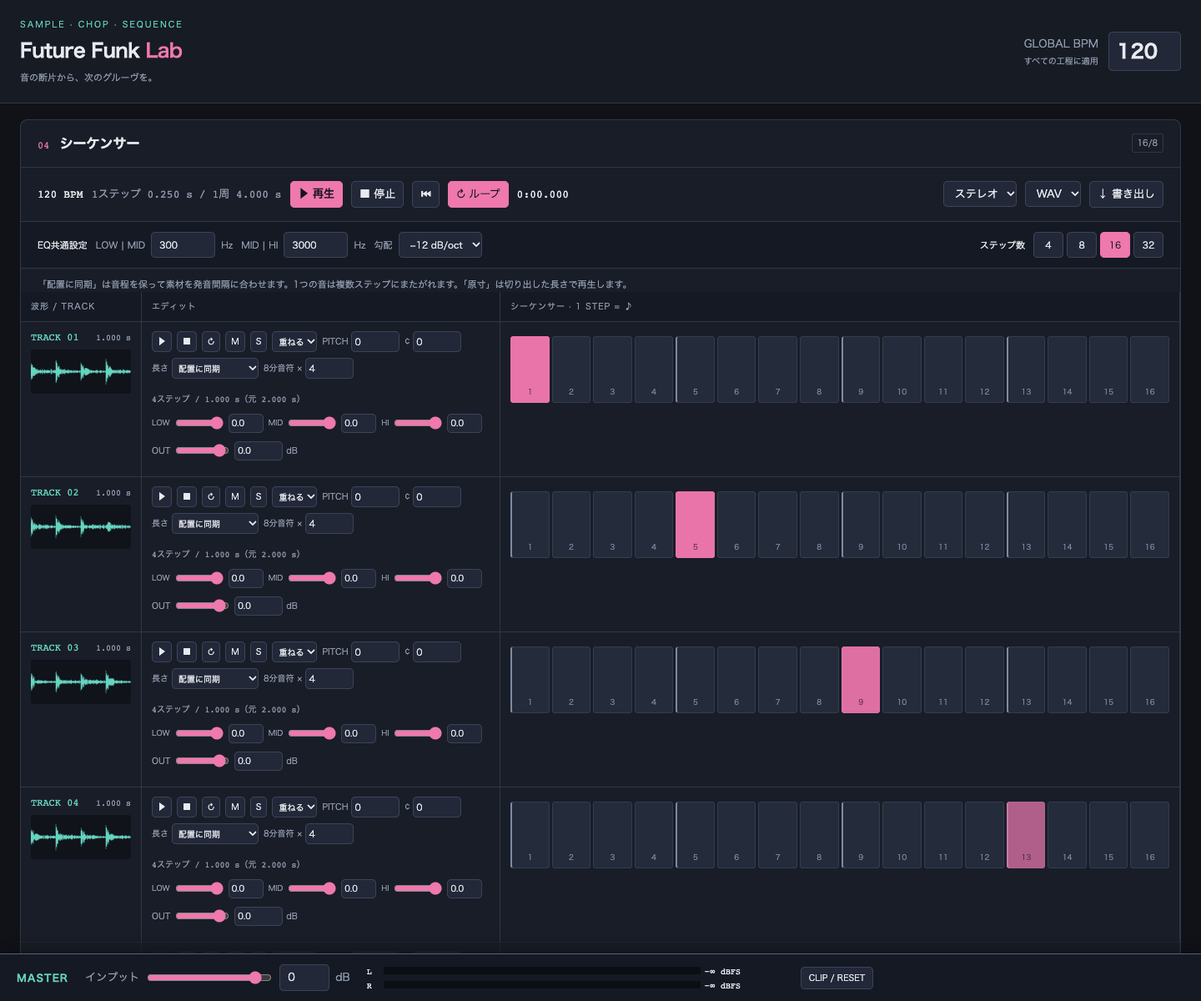
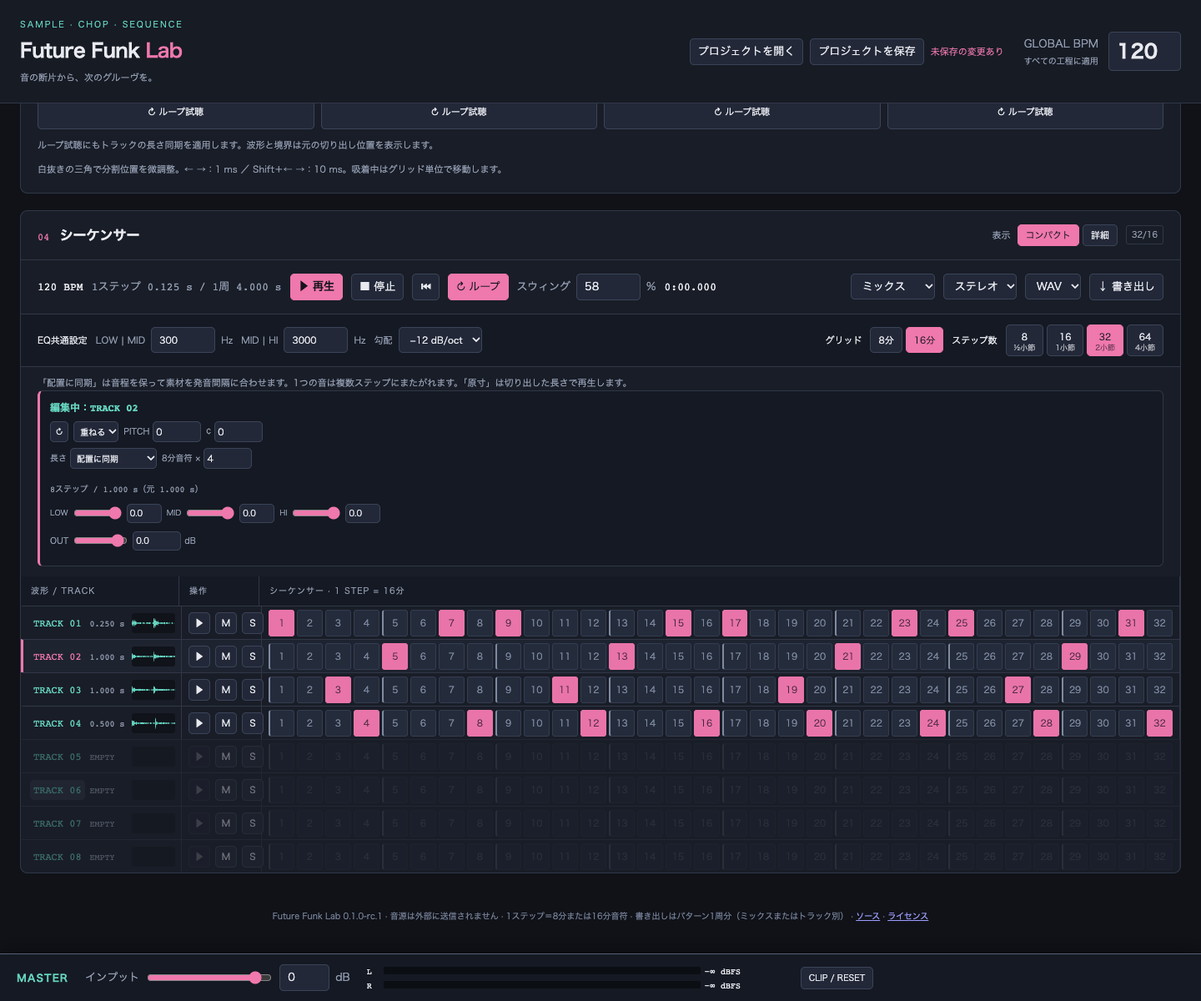
Add compact sequencer view with a selected-track editor
The default compact view shows one 40px row per track so all eight
patterns fit on screen, with a single editor for the selected track.
Track controls are now rendered from shared pieces and handled by
delegated events, so both views run the same code.

Refs #2

diff --git a/src/app.js b/src/app.js
@@ -7,7 +7,7 @@ import { autosave } from './autosave.js';
 const $=id=>document.getElementById(id);
 const steps=()=>displaySteps(state.lengthTicks,state.resolution);
 const timing=()=>({bpm:state.bpm,lengthTicks:state.lengthTicks,resolution:state.resolution,swing:state.swing});
-const state={bpm:120,sourceBpm:120,rate:44100,original:null,channels:null,range:[0,1],committed:null,points:[],count:4,lengthTicks:32,resolution:8,swing:50,snap:false,loop:true,sourceLoop:false,tracks:Array.from({length:8},(_,i)=>makeTrack(i)),settings:{low:300,high:3000,slope:12},buffers:[],parts:[{name:'ボーカル',key:'vocal',hp:{on:true,freq:200,slope:12},lp:{on:false,freq:2000,slope:12}},{name:'ベース',key:'bass',hp:{on:false,freq:200,slope:12},lp:{on:true,freq:250,slope:12}}],partGraphs:[],busy:false,generation:0,recorded:null,recording:false,sourceName:''};
+const state={bpm:120,sourceBpm:120,rate:44100,original:null,channels:null,range:[0,1],committed:null,points:[],count:4,lengthTicks:32,resolution:8,swing:50,snap:false,loop:true,sourceLoop:false,tracks:Array.from({length:8},(_,i)=>makeTrack(i)),settings:{low:300,high:3000,slope:12},buffers:[],parts:[{name:'ボーカル',key:'vocal',hp:{on:true,freq:200,slope:12},lp:{on:false,freq:2000,slope:12}},{name:'ベース',key:'bass',hp:{on:false,freq:200,slope:12},lp:{on:true,freq:250,slope:12}}],partGraphs:[],busy:false,generation:0,recorded:null,recording:false,sourceName:'',selectedTrack:0};
 let sourcePlayhead=0,sourceAudioBuffer=null,sourceSeekVersion=0,tempoFollowsSource=true,endpointMenuTime=0,padPlaybackVersion=0,loopBeatsOverride=null;
 let workerCounter=0,workerJobs=new Map();
 const workerUrl=URL.createObjectURL(new Blob([WORKER_SOURCE],{type:'text/javascript'}));
@@ -242,30 +242,90 @@ async function exportPart(index){
   busy(true);status(`${state.parts[index].name}を書き出しています…`);
   try{const channels=await renderPart(state.mid,state.rate,state.parts[index]);await saveAudio(channels,$(`part-format-${index}`).value,`future-funk-${state.parts[index].key}-${state.bpm}bpm`);status(`${state.parts[index].name}を書き出しました`);}finally{busy(false);}
 }
-function renderTracks(){
-  $('tracks').innerHTML=state.tracks.map((track,i)=>`<div class="track-row ${!state.committed||i>=state.count?'empty':''}" data-track="${i}"><div><div class="track-label"><strong>TRACK ${String(i+1).padStart(2,'0')}</strong><span data-track-length="${i}">${state.buffers[i]?state.buffers[i].duration.toFixed(3)+' s':'EMPTY'}</span></div><canvas id="track-wave-${i}" aria-label="トラック${i+1}の波形"></canvas></div><div><div class="edit-line"><button data-track-play="${i}" data-preview="track-${i}" aria-pressed="false" aria-label="トラック${i+1}試聴">▶</button><button data-track-stop="${i}" aria-label="トラック${i+1}試聴停止">■</button><button data-track-loop="${i}" aria-pressed="${track.previewLoop}" aria-label="トラック${i+1}試聴ループ">↻</button><button data-track-mute="${i}" aria-pressed="${track.mute}" aria-label="トラック${i+1}ミュート">M</button><button data-track-solo="${i}" aria-pressed="${track.solo}" aria-label="トラック${i+1}ソロ">S</button><select data-track-mode="${i}" aria-label="トラック${i+1}発音方式"><option value="overlap" ${track.mode==='overlap'?'selected':''}>重ねる</option><option value="cut" ${track.mode==='cut'?'selected':''}>切る</option></select><label>PITCH <input type="number" data-track-pitch="${i}" min="-12" max="12" step="1" value="${track.pitch}"></label><label>¢ <input type="number" data-track-cents="${i}" min="-50" max="50" step="1" value="${track.cents}"></label></div><div class="edit-line sync-controls"><label>長さ <select data-track-sync="${i}" aria-label="トラック${i+1}の長さ同期"><option value="auto" ${track.sync==='auto'?'selected':''}>配置に同期</option><option value="fixed" ${track.sync==='fixed'?'selected':''}>ステップ数を指定</option><option value="original" ${track.sync==='original'?'selected':''}>原寸</option></select></label><label>8分音符 × <input type="number" data-track-sync-steps="${i}" aria-label="トラック${i+1}の同期ステップ数" min="0.25" max="128" step="0.25" value="${track.syncSteps}" ${track.sync!=='fixed'?'disabled':''}></label><output data-sync-length="${i}" class="hint"></output></div><div class="edit-line">${['LOW','MID','HI'].map((name,k)=>`<label><span class="eq-label">${name}</span><input type="range" min="-60" max="0" step="0.5" value="${track.eq[k]===-Infinity?-60:track.eq[k]}" data-track-eq="${i}" data-band="${k}" aria-label="トラック${i+1} ${name} dB"><input type="text" id="eq-value-${i}-${k}" data-track-eq-db="${i}" data-band="${k}" value="${formatDb(track.eq[k])}" aria-label="トラック${i+1} ${name}数値 dB" style="width:42px;min-height:23px;font-size:10px;padding:3px"></label>`).join('')}</div><div class="edit-line"><label>OUT <input type="range" min="-60" max="6" step="0.5" value="${track.volume===-Infinity?-60:track.volume}" data-track-volume="${i}" aria-label="トラック${i+1}出力 dB"><input type="text" data-track-db="${i}" value="${formatDb(track.volume)}" aria-label="トラック${i+1}出力数値 dB" style="width:58px;min-height:23px;font-size:10px;padding:3px">dB</label></div></div><div><div class="steps" style="grid-template-columns:repeat(${steps()},minmax(18px,1fr))">${Array.from({length:steps()},(_,s)=>{const tick=s*ticksPerStep(state.resolution);return `<button class="step ${track.steps[tick]?'active':''}" data-track-step="${i}" data-step="${s}" data-tick="${tick}" aria-label="トラック${i+1} ステップ${s+1}" aria-pressed="${track.steps[tick]}" ${!state.committed||i>=state.count?'disabled':''}><span>${s+1}</span></button>`;}).join('')}</div></div></div>`).join('');
-  document.querySelectorAll('[data-track-step]').forEach(button=>button.addEventListener('click',()=>{const t=state.tracks[Number(button.dataset.trackStep)],s=Number(button.dataset.tick);t.steps[s]=!t.steps[s];button.classList.toggle('active',t.steps[s]);button.setAttribute('aria-pressed',t.steps[s]);engine.refreshPatternTrack(Number(button.dataset.trackStep));queueSync();}));
-  document.querySelectorAll('[data-track-play]').forEach(b=>b.addEventListener('click',guarded(()=>previewTrack(Number(b.dataset.trackPlay)))));
-  document.querySelectorAll('[data-track-stop]').forEach(b=>b.addEventListener('click',()=>engine.stopPreview(`track-${b.dataset.trackStop}`)));
-  for(const [attr,prop] of [['loop','previewLoop'],['mute','mute'],['solo','solo']])document.querySelectorAll(`[data-track-${attr}]`).forEach(b=>b.addEventListener('click',()=>{const i=Number(b.dataset['track'+attr[0].toUpperCase()+attr.slice(1)]),t=state.tracks[i];t[prop]=!t[prop];b.setAttribute('aria-pressed',t[prop]);if(attr==='loop'){const voice=engine.preview.get(`track-${i}`);if(voice)voice.source.loop=voice.loop=t.previewLoop;}else engine.updateGains();}));
-  document.querySelectorAll('[data-track-sync]').forEach(input=>input.addEventListener('change',()=>{const i=Number(input.dataset.trackSync);state.tracks[i].sync=input.value;document.querySelector(`[data-track-sync-steps="${i}"]`).disabled=input.value!=='fixed';queueSync();}));
-  document.querySelectorAll('[data-track-sync-steps]').forEach(input=>input.addEventListener('change',guarded(()=>{const i=Number(input.dataset.trackSyncSteps),value=Number(input.value);if(!Number.isFinite(value)||value<.25||value>128)throw Error('同期ステップ数は0.25〜128で指定してください');state.tracks[i].syncSteps=value;queueSync();})));
-  document.querySelectorAll('[data-track-mode]').forEach(e=>e.addEventListener('change',()=>{const i=Number(e.dataset.trackMode);state.tracks[i].mode=e.value;engine.refreshPatternTrack(i);}));
-  for(const type of ['pitch','cents'])document.querySelectorAll(`[data-track-${type}]`).forEach(input=>input.addEventListener('change',guarded(()=>{
-    const i=Number(input.dataset[type==='pitch'?'trackPitch':'trackCents']);const value=Number(input.value);if(!Number.isFinite(value))throw Error('ピッチを数値で入力してください');state.tracks[i][type]=clamp(Math.round(value),type==='pitch'?-12:-50,type==='pitch'?12:50);input.value=state.tracks[i][type];queuePitch(i);
-  })));
-  document.querySelectorAll('[data-track-eq]').forEach(input=>input.addEventListener('input',()=>{const i=Number(input.dataset.trackEq),band=Number(input.dataset.band);state.tracks[i].eq[band]=sliderDb(input.value);$(`eq-value-${i}-${band}`).value=formatDb(state.tracks[i].eq[band]);engine.updateGains();}));
-  document.querySelectorAll('[data-track-eq-db]').forEach(input=>input.addEventListener('change',guarded(()=>{const i=Number(input.dataset.trackEqDb),band=Number(input.dataset.band),value=parseDb(input.value,0);state.tracks[i].eq[band]=value;input.value=formatDb(value);document.querySelector(`[data-track-eq="${i}"][data-band="${band}"]`).value=value===-Infinity?-60:value;engine.updateGains();})));
-  document.querySelectorAll('[data-track-volume]').forEach(input=>input.addEventListener('input',()=>{const i=Number(input.dataset.trackVolume);state.tracks[i].volume=sliderDb(input.value);document.querySelector(`[data-track-db="${i}"]`).value=formatDb(state.tracks[i].volume);engine.updateGains();}));
-  document.querySelectorAll('[data-track-db]').forEach(input=>input.addEventListener('change',guarded(()=>{const i=Number(input.dataset.trackDb),value=parseDb(input.value,6);state.tracks[i].volume=value;input.value=formatDb(value);document.querySelector(`[data-track-volume="${i}"]`).value=value===-Infinity?-60:value;engine.updateGains();})));
-  state.tracks.forEach((_,i)=>{drawMini(i);updateTrackTiming(i);});updatePatternLength();refreshAvailability();
-  // 64 cells need more room than the shared column; let the table scroll instead.
-  document.querySelector('.sequencer').style.minWidth=steps()>32?`${575+steps()*21+24}px`:'';
+// Compact view shows one 40px row per track plus a single editor for the selected
+// track; detail view keeps every editor inline. Both share these pieces.
+let trackView='compact';
+try{if(localStorage.getItem('ffl:view')==='detail')trackView='detail';}catch{}
+const trackName=i=>`TRACK ${String(i+1).padStart(2,'0')}`;
+const trackLength=i=>state.buffers[i]?state.buffers[i].duration.toFixed(3)+' s':'EMPTY';
+function trackButtonsHtml(i,{stop=true}={}){
+  const track=state.tracks[i];
+  return `<button data-track-play="${i}" data-preview="track-${i}" aria-pressed="false" aria-label="トラック${i+1}試聴">▶</button>${stop?`<button data-track-stop="${i}" aria-label="トラック${i+1}試聴停止">■</button>`:''}<button data-track-mute="${i}" aria-pressed="${track.mute}" aria-label="トラック${i+1}ミュート">M</button><button data-track-solo="${i}" aria-pressed="${track.solo}" aria-label="トラック${i+1}ソロ">S</button>`;
 }
+function trackEditorHtml(i,{transport=true}={}){
+  const track=state.tracks[i];
+  const loop=`<button data-track-loop="${i}" aria-pressed="${track.previewLoop}" aria-label="トラック${i+1}試聴ループ">↻</button>`;
+  const head=transport?trackButtonsHtml(i).replace('<button data-track-mute',`${loop}<button data-track-mute`):loop;
+  return `<div class="edit-line">${head}<select data-track-mode="${i}" aria-label="トラック${i+1}発音方式"><option value="overlap" ${track.mode==='overlap'?'selected':''}>重ねる</option><option value="cut" ${track.mode==='cut'?'selected':''}>切る</option></select><label>PITCH <input type="number" data-track-pitch="${i}" min="-12" max="12" step="1" value="${track.pitch}"></label><label>¢ <input type="number" data-track-cents="${i}" min="-50" max="50" step="1" value="${track.cents}"></label></div><div class="edit-line sync-controls"><label>長さ <select data-track-sync="${i}" aria-label="トラック${i+1}の長さ同期"><option value="auto" ${track.sync==='auto'?'selected':''}>配置に同期</option><option value="fixed" ${track.sync==='fixed'?'selected':''}>ステップ数を指定</option><option value="original" ${track.sync==='original'?'selected':''}>原寸</option></select></label><label>8分音符 × <input type="number" data-track-sync-steps="${i}" aria-label="トラック${i+1}の同期ステップ数" min="0.25" max="128" step="0.25" value="${track.syncSteps}" ${track.sync!=='fixed'?'disabled':''}></label><output data-sync-length="${i}" class="hint"></output></div><div class="edit-line">${['LOW','MID','HI'].map((name,k)=>`<label><span class="eq-label">${name}</span><input type="range" min="-60" max="0" step="0.5" value="${track.eq[k]===-Infinity?-60:track.eq[k]}" data-track-eq="${i}" data-band="${k}" aria-label="トラック${i+1} ${name} dB"><input type="text" id="eq-value-${i}-${k}" data-track-eq-db="${i}" data-band="${k}" value="${formatDb(track.eq[k])}" aria-label="トラック${i+1} ${name}数値 dB" style="width:42px;min-height:23px;font-size:10px;padding:3px"></label>`).join('')}</div><div class="edit-line"><label>OUT <input type="range" min="-60" max="6" step="0.5" value="${track.volume===-Infinity?-60:track.volume}" data-track-volume="${i}" aria-label="トラック${i+1}出力 dB"><input type="text" data-track-db="${i}" value="${formatDb(track.volume)}" aria-label="トラック${i+1}出力数値 dB" style="width:58px;min-height:23px;font-size:10px;padding:3px">dB</label></div>`;
+}
+function trackStepsHtml(i){
+  const track=state.tracks[i];
+  return `<div class="steps" style="grid-template-columns:repeat(${steps()},minmax(18px,1fr))">${Array.from({length:steps()},(_,s)=>{const tick=s*ticksPerStep(state.resolution);return `<button class="step ${track.steps[tick]?'active':''}" data-track-step="${i}" data-step="${s}" data-tick="${tick}" aria-label="トラック${i+1} ステップ${s+1}" aria-pressed="${track.steps[tick]}" ${!state.committed||i>=state.count?'disabled':''}><span>${s+1}</span></button>`;}).join('')}</div>`;
+}
+function renderTracks(){
+  if(state.selectedTrack>=state.count)state.selectedTrack=0;
+  const compact=trackView==='compact';
+  $('tracks').innerHTML=state.tracks.map((_,i)=>{
+    const empty=!state.committed||i>=state.count?'empty':'';
+    if(!compact)return `<div class="track-row ${empty}" data-track="${i}"><div><div class="track-label"><strong>${trackName(i)}</strong><span data-track-length="${i}">${trackLength(i)}</span></div><canvas id="track-wave-${i}" aria-label="トラック${i+1}の波形"></canvas></div><div>${trackEditorHtml(i)}</div><div>${trackStepsHtml(i)}</div></div>`;
+    const selected=i===state.selectedTrack;
+    return `<div class="track-row compact ${empty} ${selected?'selected':''}" data-track="${i}"><div class="track-label"><button class="track-select" data-track-select="${i}" aria-pressed="${selected}" aria-label="${trackName(i)}を編集">${trackName(i)}</button><span data-track-length="${i}">${trackLength(i)}</span><canvas id="track-wave-${i}" aria-label="トラック${i+1}の波形"></canvas></div><div class="track-buttons">${trackButtonsHtml(i,{stop:false})}</div><div>${trackStepsHtml(i)}</div></div>`;
+  }).join('');
+  const editor=$('track-editor');
+  editor.classList.toggle('hidden',!compact);
+  editor.innerHTML=compact?`<div class="track-editor-head"><strong>編集中：${trackName(state.selectedTrack)}</strong></div>${trackEditorHtml(state.selectedTrack,{transport:false})}`:'';
+  document.querySelector('.sequencer').classList.toggle('compact',compact);
+  for(const view of ['compact','detail'])$(`view-${view}`).setAttribute('aria-pressed',trackView===view);
+  state.tracks.forEach((_,i)=>{drawMini(i);updateTrackTiming(i);});updatePatternLength();refreshAvailability();
+  for(const [key,voice] of engine.preview)if(key.startsWith('track-')&&!voice.stopped)document.querySelectorAll(`[data-track-play="${key.slice(6)}"]`).forEach(b=>b.classList.add('active'));
+  // 64 cells need more room than the shared column; let the table scroll instead.
+  document.querySelector('.sequencer').style.minWidth=steps()>32?`${(compact?280:575)+steps()*21+24}px`:'';
+}
+function setTrackView(view){
+  trackView=view;try{localStorage.setItem('ffl:view',view);}catch{}
+  renderTracks();
+}
+bind('view-compact','click',()=>setTrackView('compact'));
+bind('view-detail','click',()=>setTrackView('detail'));
+// Track controls are rendered in two places, so events are delegated from the section.
+const pressAll=(attr,i,value)=>document.querySelectorAll(`[data-track-${attr}="${i}"]`).forEach(b=>b.setAttribute('aria-pressed',value));
+const trackClicks={
+  trackStep(button,i){const t=state.tracks[i],tick=Number(button.dataset.tick);t.steps[tick]=!t.steps[tick];button.classList.toggle('active',t.steps[tick]);button.setAttribute('aria-pressed',t.steps[tick]);engine.refreshPatternTrack(i);queueSync();},
+  trackPlay:(_,i)=>previewTrack(i),
+  trackStop:(_,i)=>engine.stopPreview(`track-${i}`),
+  trackLoop(_,i){const t=state.tracks[i];t.previewLoop=!t.previewLoop;pressAll('loop',i,t.previewLoop);const voice=engine.preview.get(`track-${i}`);if(voice)voice.source.loop=voice.loop=t.previewLoop;},
+  trackMute(_,i){const t=state.tracks[i];t.mute=!t.mute;pressAll('mute',i,t.mute);engine.updateGains();},
+  trackSolo(_,i){const t=state.tracks[i];t.solo=!t.solo;pressAll('solo',i,t.solo);engine.updateGains();},
+  trackSelect(_,i){state.selectedTrack=i;renderTracks();}
+};
+const trackChanges={
+  trackMode(input,i){state.tracks[i].mode=input.value;engine.refreshPatternTrack(i);},
+  trackSync(input,i){state.tracks[i].sync=input.value;document.querySelectorAll(`[data-track-sync-steps="${i}"]`).forEach(e=>e.disabled=input.value!=='fixed');queueSync();},
+  trackSyncSteps(input,i){const value=Number(input.value);if(!Number.isFinite(value)||value<.25||value>128)throw Error('同期ステップ数は0.25〜128で指定してください');state.tracks[i].syncSteps=value;queueSync();},
+  trackPitch:(input,i)=>setTrackPitch(input,i,'pitch'),
+  trackCents:(input,i)=>setTrackPitch(input,i,'cents'),
+  trackEqDb(input,i){const band=Number(input.dataset.band),value=parseDb(input.value,0);state.tracks[i].eq[band]=value;input.value=formatDb(value);document.querySelector(`[data-track-eq="${i}"][data-band="${band}"]`).value=value===-Infinity?-60:value;engine.updateGains();},
+  trackDb(input,i){const value=parseDb(input.value,6);state.tracks[i].volume=value;input.value=formatDb(value);document.querySelector(`[data-track-volume="${i}"]`).value=value===-Infinity?-60:value;engine.updateGains();}
+};
+const trackInputs={
+  trackEq(input,i){const band=Number(input.dataset.band);state.tracks[i].eq[band]=sliderDb(input.value);$(`eq-value-${i}-${band}`).value=formatDb(state.tracks[i].eq[band]);engine.updateGains();},
+  trackVolume(input,i){state.tracks[i].volume=sliderDb(input.value);document.querySelector(`[data-track-db="${i}"]`).value=formatDb(state.tracks[i].volume);engine.updateGains();}
+};
+function setTrackPitch(input,i,type){
+  const value=Number(input.value);if(!Number.isFinite(value))throw Error('ピッチを数値で入力してください');
+  state.tracks[i][type]=clamp(Math.round(value),type==='pitch'?-12:-50,type==='pitch'?12:50);input.value=state.tracks[i][type];queuePitch(i);
+}
+function delegate(type,handlers,selector){
+  $('sequence').addEventListener(type,event=>{
+    const element=event.target.closest(selector);if(!element||element.disabled)return;
+    const key=Object.keys(handlers).find(k=>k in element.dataset);if(key)guarded(handlers[key])(element,Number(element.dataset[key]));
+  });
+}
+delegate('click',trackClicks,'button');delegate('change',trackChanges,'input,select');delegate('input',trackInputs,'input[type=range]');
 function drawMini(index){const canvas=$(`track-wave-${index}`),ctx=canvas.getContext('2d'),width=canvas.width=240,height=canvas.height=70;ctx.clearRect(0,0,width,height);const buffer=state.buffers[index];if(!buffer)return;const data=buffer.getChannelData(0);ctx.strokeStyle='#65d4c0';ctx.beginPath();for(let x=0;x<width;x++){const a=Math.floor(x/width*data.length),b=Math.floor((x+1)/width*data.length);let max=0;for(let j=a;j<b;j++)max=Math.max(max,Math.abs(data[j]));ctx.moveTo(x,height/2-max*height*.44);ctx.lineTo(x,height/2+max*height*.44);}ctx.stroke();}
 async function previewTrack(index){
   const stopped=engine.stopVersion,generation=state.generation;await flushPitch();await initAudio();if(stopped!==engine.stopVersion||generation!==state.generation||!state.buffers[index])return;const key=`track-${index}`;if(engine.preview.has(key)){engine.stopPreview(key);return;}
-  const voice=await engine.playPreview(key,state.buffers[index],engine.graphs[index].input,state.tracks[index].previewLoop,0,index);if(voice)document.querySelector(`[data-track-play="${index}"]`).classList.add('active');
+  const voice=await engine.playPreview(key,state.buffers[index],engine.graphs[index].input,state.tracks[index].previewLoop,0,index);if(voice)document.querySelectorAll(`[data-track-play="${index}"]`).forEach(b=>b.classList.add('active'));
 }
 const pendingPitch=new Map();
 function launchTrackBuild(index,version,epoch,pitchChange){
@@ -575,4 +635,4 @@ function animate(time){
 }requestAnimationFrame(animate);
 window.addEventListener('pagehide',()=>{recordStream?.getTracks().forEach(t=>t.stop());engine.stopAll();worker.terminate();});
 // Read-only diagnostics for integration checks; no audio data leaves this page.
-window.futureFunkLab={getState:()=>({chopPlayback:getChopPlayback(),tempoFollowsSource,sourcePlayhead:engine.preview.has('source')?sourceVoicePosition(engine.preview.get('source')):sourcePlayhead,sourcePlaybackMode:engine.preview.get('source')?.sourceMode??null,sourceTool:sourceWave.tool,sourceZoom:sourceWave.zoom,sourceScroll:sourceWave.scroll,bpm:state.bpm,sourceBpm:state.sourceBpm,duration:duration(),count:state.count,steps:steps(),lengthTicks:state.lengthTicks,resolution:state.resolution,swing:state.swing,points:[...state.points],range:[...state.range],committed:state.committed?[...state.committed]:null,bufferDurations:state.buffers.map(b=>b.duration),syncSpans:state.buffers.map(b=>b.syncSpan),previewDurations:state.buffers.map(b=>b.chopPreview?.duration),pendingTracks:[...pendingPitch.keys()],busy:state.busy,playing:engine.playing,tracks:structuredClone(state.tracks)}),engine};
+window.futureFunkLab={getState:()=>({chopPlayback:getChopPlayback(),tempoFollowsSource,sourcePlayhead:engine.preview.has('source')?sourceVoicePosition(engine.preview.get('source')):sourcePlayhead,sourcePlaybackMode:engine.preview.get('source')?.sourceMode??null,sourceTool:sourceWave.tool,sourceZoom:sourceWave.zoom,sourceScroll:sourceWave.scroll,bpm:state.bpm,sourceBpm:state.sourceBpm,duration:duration(),count:state.count,steps:steps(),lengthTicks:state.lengthTicks,resolution:state.resolution,swing:state.swing,points:[...state.points],range:[...state.range],committed:state.committed?[...state.committed]:null,bufferDurations:state.buffers.map(b=>b.duration),syncSpans:state.buffers.map(b=>b.syncSpan),previewDurations:state.buffers.map(b=>b.chopPreview?.duration),pendingTracks:[...pendingPitch.keys()],busy:state.busy,playing:engine.playing,tracks:structuredClone(state.tracks),view:trackView,selectedTrack:state.selectedTrack}),engine};

diff --git a/index.html b/index.html
@@ -15,10 +15,10 @@
 </div></section>
 <section class="section" id="separation"><div class="section-head"><div class="section-title"><span class="section-number">02</span><h2>音声分離</h2><span class="badge">オプション機能</span></div><span class="muted">MID + FILTER</span></div><div class="section-body"><div class="parts" id="parts"></div><p class="hint">簡易分離：センター成分にフィルターをかけます。他の楽器も混ざります。分離音源は書き出し専用で、チョップには引き継ぎません。</p></div></section>
 <section class="section" id="chop"><div class="section-head"><div class="section-title"><span class="section-number">03</span><h2>チョップ</h2></div><span class="badge">SLICE</span></div><div class="section-body"><div class="row"><label>分割数 <select id="chop-count"><option>2</option><option>3</option><option selected>4</option><option>5</option><option>6</option><option>7</option><option>8</option></select></label><label><input id="snap" type="checkbox">拍に吸着（グリッド）</label><span id="chop-info" class="muted">サンプリング範囲を確定してください</span></div><canvas id="chop-wave" class="wave" tabindex="0" aria-label="チョップ波形。内部マーカーをドラッグ、左右キーで1ms、Shift併用で10ms移動"></canvas><div class="chop-playback"><output id="chop-position" class="mono" aria-live="off">停止中</output><progress id="chop-progress" max="1" value="0" aria-label="チョップ試聴の区間内再生位置"></progress></div><div id="chop-pads" class="chop-pads"></div><p class="hint">ループ試聴にもトラックの長さ同期を適用します。波形と境界は元の切り出し位置を表示します。</p><p class="hint">白抜きの三角で分割位置を微調整。← →：1 ms ／ Shift＋← →：10 ms。吸着中はグリッド単位で移動します。</p></div></section>
-<section class="section" id="sequence"><div class="section-head"><div class="section-title"><span class="section-number">04</span><h2>シーケンサー</h2></div><span id="signature" class="badge">16/8</span></div>
+<section class="section" id="sequence"><div class="section-head"><div class="section-title"><span class="section-number">04</span><h2>シーケンサー</h2></div><div class="row"><div class="view-toggle" role="group" aria-label="表示"><span class="muted">表示</span><button id="view-compact" aria-pressed="true">コンパクト</button><button id="view-detail" aria-pressed="false">詳細</button></div><span id="signature" class="badge">16/8</span></div></div>
 <div class="sequence-tools"><div class="row"><span class="mono"><span id="sequence-bpm">120</span> BPM</span><span id="pattern-length" class="muted mono">1ステップ 0.250 s / 1周 4.000 s</span><button id="seq-play" class="primary" data-needs-chop>▶ 再生</button><button id="seq-stop">■ 停止</button><button id="seq-rewind" aria-label="先頭へ戻る">⏮</button><button id="seq-loop" aria-pressed="true">↻ ループ</button><label title="選んでいるグリッドの裏のステップを遅らせます。50%でずれなし">スウィング <input id="swing" type="number" min="50" max="75" step="1" value="50" aria-label="スウィング %">%</label><output id="transport-time">0:00.000</output><div class="grow"></div><select id="export-target" aria-label="書き出す内容"><option value="mix">ミックス</option><option value="stems">トラック別</option></select><select id="export-channels" aria-label="書き出しチャンネル"><option value="2">ステレオ</option><option value="1">モノ</option></select><select id="export-format" aria-label="書き出し形式"><option value="wav">WAV</option><option value="mp3">MP3</option></select><button id="export" data-needs-chop>↓ 書き出し</button></div></div>
 <div class="eq-settings row"><span>EQ共通設定</span><label>LOW | MID <input id="eq-low" type="number" min="200" max="500" value="300">Hz</label><label>MID | HI <input id="eq-high" type="number" min="2000" max="4000" value="3000">Hz</label><label>勾配 <select id="eq-slope"><option value="6">−6 dB/oct</option><option value="12" selected>−12 dB/oct</option><option value="24">−24 dB/oct</option></select></label><div class="grow"></div><span>グリッド</span><div class="step-buttons" role="group" aria-label="グリッド"><button id="grid-8" aria-pressed="true">8分</button><button id="grid-16" aria-pressed="false">16分</button></div><span>ステップ数</span><div id="step-buttons" class="step-buttons"></div></div>
-<div id="grid-confirm" class="grid-confirm hidden" role="alert"><span id="grid-confirm-text"></span><button id="grid-confirm-yes" class="primary">消して8分にする</button><button id="grid-confirm-no">やめる</button></div><p class="hint sequence-sync-hint">「配置に同期」は音程を保って素材を発音間隔に合わせます。1つの音は複数ステップにまたがれます。「原寸」は切り出した長さで再生します。</p><div class="table-scroll"><div class="sequencer"><div class="seq-header"><div>波形 / TRACK</div><div>エディット</div><div>シーケンサー <span class="muted"> · 1 STEP = <span id="step-unit">8分</span></span></div></div><div id="tracks"></div></div></div>
+<div id="grid-confirm" class="grid-confirm hidden" role="alert"><span id="grid-confirm-text"></span><button id="grid-confirm-yes" class="primary">消して8分にする</button><button id="grid-confirm-no">やめる</button></div><p class="hint sequence-sync-hint">「配置に同期」は音程を保って素材を発音間隔に合わせます。1つの音は複数ステップにまたがれます。「原寸」は切り出した長さで再生します。</p><div id="track-editor" class="track-editor" role="region" aria-label="選択中のトラックの編集"></div><div class="table-scroll"><div class="sequencer"><div class="seq-header"><div>波形 / TRACK</div><div><span class="detail-only">エディット</span><span class="compact-only">操作</span></div><div>シーケンサー <span class="muted"> · 1 STEP = <span id="step-unit">8分</span></span></div></div><div id="tracks"></div></div></div>
 
 </section>
 </main><div class="master" id="master-strip" role="region" aria-label="マスタートラック"><strong>MASTER</strong><label>インプット <input id="master" type="range" min="-60" max="6" step="0.5" value="0"><input id="master-number" type="text" value="0" aria-label="マスターゲイン dB" style="width:60px"><span>dB</span></label><div class="meters"><span>L</span><div class="meter"><div class="meter-fill" id="meter-l"></div></div><output id="peak-l">−∞ dBFS</output><span>R</span><div class="meter"><div class="meter-fill" id="meter-r"></div></div><output id="peak-r">−∞ dBFS</output></div><button id="clip-reset" class="clip">CLIP / RESET</button></div>

diff --git a/tests/browser/compact-view.spec.js b/tests/browser/compact-view.spec.js
@@ -1,0 +1,44 @@
+import { test, expect } from '@playwright/test';
+async function state(page){return page.evaluate(()=>window.futureFunkLab.getState());}
+async function prepare(page){
+  await page.setViewportSize({width:1440,height:900});
+  await page.goto('/');await page.locator('#demo').click();await expect(page.locator('#sample')).toBeEnabled();
+  await page.locator('#sample').click();await expect(page.locator('#seq-play')).toBeEnabled();
+}
+test('1440×900で8トラックのステップ行がスクロールなしで同時に見える',async({page})=>{
+  await prepare(page);
+  expect((await state(page)).view).toBe('compact');await expect(page.locator('#view-compact')).toHaveAttribute('aria-pressed','true');
+  const layout=await page.evaluate(()=>{
+    const rows=[...document.querySelectorAll('#tracks .track-row')],header=document.querySelector('header').getBoundingClientRect().bottom;
+    window.scrollBy(0,rows[0].getBoundingClientRect().top-header-8);
+    const first=rows[0].getBoundingClientRect(),last=rows[7].getBoundingClientRect(),master=document.querySelector('#master-strip').getBoundingClientRect().top;
+    return {count:rows.length,span:last.bottom-first.top,firstTop:first.top,lastBottom:last.bottom,headerBottom:document.querySelector('header').getBoundingClientRect().bottom,master};
+  });
+  expect(layout.count).toBe(8);expect(layout.span).toBeLessThanOrEqual(400);
+  expect(layout.firstTop).toBeGreaterThanOrEqual(layout.headerBottom);expect(layout.lastBottom).toBeLessThanOrEqual(layout.master);
+  await expect(page.locator('[data-track-step="7"][data-step="15"]')).toBeInViewport();
+  const fonts=await page.evaluate(()=>Math.min(...[...document.querySelectorAll('.track-row.compact .step, .track-row.compact .track-select, .track-buttons button')].map(e=>parseFloat(getComputedStyle(e).fontSize))));
+  expect(fonts).toBeGreaterThanOrEqual(11);
+});
+test('TRACK 03を選んでPITCHを変えると、TRACK 03だけが変わる',async({page})=>{
+  await prepare(page);
+  await expect(page.locator('#track-editor')).toContainText('編集中：TRACK 01');
+  await page.locator('[data-track-select="2"]').click();
+  await expect(page.locator('#track-editor')).toContainText('編集中：TRACK 03');await expect(page.locator('[data-track="2"]')).toHaveClass(/selected/);
+  await expect(page.locator('[data-track-pitch]')).toHaveCount(1);
+  await page.locator('[data-track-pitch="2"]').fill('5');await page.locator('[data-track-pitch="2"]').press('Tab');
+  await expect(page.locator('#status')).toContainText('トラック3のピッチを更新しました');
+  expect((await state(page)).tracks.map(t=>t.pitch)).toEqual([0,0,5,0,0,0,0,0]);
+  await page.locator('[data-track-step="2"][data-step="0"]').click();await page.locator('[data-track-mute="2"]').click();
+  const current=await state(page);expect(current.tracks[2].steps[0]).toBe(true);expect(current.tracks[2].mute).toBe(true);
+  await page.locator('#chop-count').selectOption('2');await expect(page.locator('#track-editor')).toContainText('編集中：TRACK 01');
+});
+test('詳細表示に切り替えると全トラックの編集部品が並び、再読み込み後も残る',async({page})=>{
+  await prepare(page);await page.locator('[data-track-select="1"]').click();await page.locator('[data-track-pitch="1"]').fill('-4');await page.locator('[data-track-pitch="1"]').press('Tab');
+  await page.locator('#view-detail').click();
+  await expect(page.locator('#track-editor')).toBeHidden();await expect(page.locator('[data-track-pitch]')).toHaveCount(8);await expect(page.locator('[data-track-stop]')).toHaveCount(8);
+  await expect(page.locator('[data-track-pitch="1"]')).toHaveValue('-4');
+  await page.reload();await expect(page.locator('#view-detail')).toHaveAttribute('aria-pressed','true');await expect(page.locator('[data-track-pitch]')).toHaveCount(8);
+  expect((await state(page)).view).toBe('detail');
+  await page.locator('#view-compact').click();await page.reload();expect((await state(page)).view).toBe('compact');
+});

diff --git a/src/style.css b/src/style.css
@@ -18,3 +18,12 @@
 @media(max-width:900px){header{flex-wrap:wrap}.header-tools{width:100%;justify-content:space-between;gap:12px}.project-tools{flex-wrap:wrap}.dirty{min-width:0}}
 
 .step-buttons button small{display:block;font-size:9px;opacity:.75;line-height:1}.grid-confirm{margin:0 20px 10px;padding:10px 12px;display:flex;gap:10px;align-items:center;flex-wrap:wrap;border:1px solid var(--pink);border-radius:6px;font-size:12px}.grid-confirm span{flex:1;min-width:220px}
+.view-toggle{display:inline-flex;gap:4px;align-items:center;font-size:11px}.view-toggle span{margin-right:4px}.view-toggle button{min-height:26px;font-size:11px;padding:3px 9px}
+.compact-only{display:none}.sequencer.compact .compact-only{display:inline}.sequencer.compact .detail-only{display:none}
+.track-editor{margin:0 20px 12px;padding:10px 12px;border:1px solid var(--line);border-left:3px solid var(--pink);border-radius:6px;background:#151923}.track-editor-head{font-size:12px;color:var(--mint);margin-bottom:8px;font-family:ui-monospace,SFMono-Regular,monospace}.track-editor .edit-line{flex-wrap:wrap}
+.sequencer.compact .seq-header,.track-row.compact{grid-template-columns:190px 96px minmax(450px,1fr)}
+.track-row.compact{min-height:40px;border-left:3px solid transparent}.track-row.compact.selected{border-left-color:var(--pink);background:#1e2330}.track-row.compact>div{padding:3px 8px;display:flex;align-items:center;gap:6px}
+.track-row.compact .track-label{justify-content:flex-start}.track-row.compact .track-label span{font-size:10px;min-width:44px}.track-row.compact canvas{width:52px;height:24px;margin:0;flex:none}
+.track-select{border:0;background:transparent;padding:2px 4px;min-height:24px;font:12px ui-monospace,SFMono-Regular,monospace;color:var(--mint)}.track-select[aria-pressed=true]{background:transparent;color:var(--pink);border:0}.track-select:hover{background:#2a3142}
+.track-buttons button{min-height:26px;min-width:26px;font-size:11px;padding:2px 6px}
+.track-row.compact .steps{height:32px;margin:0;flex:1}.track-row.compact .step{min-height:30px;font-size:11px}.track-row.compact .step span{bottom:7px}

diff --git a/tests/browser/loop-sync.spec.js b/tests/browser/loop-sync.spec.js
@@ -1,6 +1,8 @@
 import {test,expect} from '@playwright/test';
 import {readFile} from 'node:fs/promises';
 import {encodeWav} from '../../src/core.js';
+// These tests use every track's inline editor, which the detail view shows.
+test.beforeEach(async({page})=>{await page.addInitScript(()=>{try{localStorage.setItem('ffl:view','detail');}catch{}});});
 const state=page=>page.evaluate(()=>window.futureFunkLab.getState());
 async function loaded(page){await page.goto('/');await page.locator('#demo').click();await expect(page.locator('#sample')).toBeEnabled();await page.locator('#range-end').fill('7.232');await page.locator('#range-end').press('Tab');await page.locator('#sample').click();await expect(page.locator('#seq-play')).toBeEnabled();}
 async function pattern(page){for(const s of [0,4,8])await page.locator(`[data-track-step="0"][data-step="${s}"]`).click();await page.locator('[data-track-step="3"][data-step="12"]').click();}

diff --git a/tests/browser/project.spec.js b/tests/browser/project.spec.js
@@ -1,5 +1,7 @@
 import { test, expect } from '@playwright/test';
 import { readFile } from 'node:fs/promises';
+// These tests use every track's inline editor, which the detail view shows.
+test.beforeEach(async({page})=>{await page.addInitScript(()=>{try{localStorage.setItem('ffl:view','detail');}catch{}});});
 async function demo(page){await page.goto('/');await page.getByRole('button',{name:'デモ音源を読み込む'}).click();await expect(page.locator('#sample')).toBeEnabled();}
 async function state(page){return page.evaluate(()=>window.futureFunkLab.getState());}
 async function download(page,selector){const promise=page.waitForEvent('download');await page.locator(selector).click();const file=await promise;return {name:file.suggestedFilename(),data:await readFile(await file.path())};}

diff --git a/tests/browser/real-source.spec.js b/tests/browser/real-source.spec.js
@@ -4,6 +4,8 @@ import {build} from 'esbuild';
 
 const sourcePath=process.env.FFL_VERIFY_SOURCE;
 const harness=await build({entryPoints:['src/audio.js'],bundle:true,write:false,format:'iife',globalName:'audioTest',target:'es2022'});
+// These tests use every track's inline editor, which the detail view shows.
+test.beforeEach(async({page})=>{await page.addInitScript(()=>{try{localStorage.setItem('ffl:view','detail');}catch{}});});
 test('実素材の1.808秒チョップを配置に同期し、試聴・連続再生・WAVの波形を照合する',async({page})=>{
   test.skip(!sourcePath,'FFL_VERIFY_SOURCEで検証対象のローカル音源を指定');
   await page.goto('/');await page.locator('#source-file').setInputFiles(sourcePath);await expect(page.locator('#sample')).toBeEnabled();

diff --git a/tests/browser/release-audit.spec.js b/tests/browser/release-audit.spec.js
@@ -1,6 +1,8 @@
 import {test,expect} from '@playwright/test';
 import {build} from 'esbuild';
 const harness=await build({entryPoints:['src/audio.js'],bundle:true,write:false,format:'iife',globalName:'releaseAudio',target:'es2022'});
+// These tests use every track's inline editor, which the detail view shows.
+test.beforeEach(async({page})=>{await page.addInitScript(()=>{try{localStorage.setItem('ffl:view','detail');}catch{}});});
 
 test('再生準備中に停止した場合、準備完了後も停止を維持する',async({page})=>{
   await page.goto('/');await page.locator('#demo').click();await expect(page.locator('#sample')).toBeEnabled();await page.locator('#sample').click();await expect(page.locator('#seq-play')).toBeEnabled();

diff --git a/tests/browser/app.spec.js b/tests/browser/app.spec.js
@@ -1,5 +1,7 @@
 import { test, expect } from '@playwright/test';
 import { readFile } from 'node:fs/promises';
+// These tests use every track's inline editor, which the detail view shows.
+test.beforeEach(async({page})=>{await page.addInitScript(()=>{try{localStorage.setItem('ffl:view','detail');}catch{}});});
 async function demo(page){await page.goto('/');await page.getByRole('button',{name:'デモ音源を読み込む'}).click();await expect(page.locator('#sample')).toBeEnabled();}
 async function sample(page){await page.locator('#sample').click();await expect(page.locator('#seq-play')).toBeEnabled();}
 async function state(page){return page.evaluate(()=>window.futureFunkLab.getState());}

diff --git a/tests/browser/sync.spec.js b/tests/browser/sync.spec.js
@@ -1,6 +1,8 @@
 import {test,expect} from '@playwright/test';
 import {readFile} from 'node:fs/promises';
 import {encodeWav} from '../../src/core.js';
+// These tests use every track's inline editor, which the detail view shows.
+test.beforeEach(async({page})=>{await page.addInitScript(()=>{try{localStorage.setItem('ffl:view','detail');}catch{}});});
 const state=page=>page.evaluate(()=>window.futureFunkLab.getState());
 async function source(page){await page.goto('/');await page.locator('#demo').click();await expect(page.locator('#sample')).toBeEnabled();}
 test('マスターは全スクロール位置・狭い画面でも表示され、その場で操作できる',async({page})=>{

diff --git a/tests/browser/audio.spec.js b/tests/browser/audio.spec.js
@@ -1,6 +1,8 @@
 import { test, expect } from '@playwright/test';
 import { build } from 'esbuild';
 const harness=await build({entryPoints:['src/audio.js'],bundle:true,write:false,format:'iife',globalName:'audioTest',target:'es2022'});
+// These tests use every track's inline editor, which the detail view shows.
+test.beforeEach(async({page})=>{await page.addInitScript(()=>{try{localStorage.setItem('ffl:view','detail');}catch{}});});
 test('長いサンプルの重ねる／切ると、前周からの音を含むループ書き出し',async({page})=>{
   await page.goto('/');await page.addScriptTag({content:harness.outputFiles[0].text});
   const result=await page.evaluate(async()=>{

diff --git a/tests/browser/sampling.spec.js b/tests/browser/sampling.spec.js
@@ -1,4 +1,6 @@
 import { test, expect } from '@playwright/test';
+// These tests use every track's inline editor, which the detail view shows.
+test.beforeEach(async({page})=>{await page.addInitScript(()=>{try{localStorage.setItem('ffl:view','detail');}catch{}});});
 async function start(page){await page.goto('/');await page.locator('#demo').click();await expect(page.locator('#sample')).toBeEnabled();await page.locator('#source-wave').scrollIntoViewIfNeeded();}
 async function state(page){return page.evaluate(()=>window.futureFunkLab.getState());}
 async function zoom(page,value){await page.locator('#zoom').fill(String(value));await page.locator('#zoom').dispatchEvent('input');}
